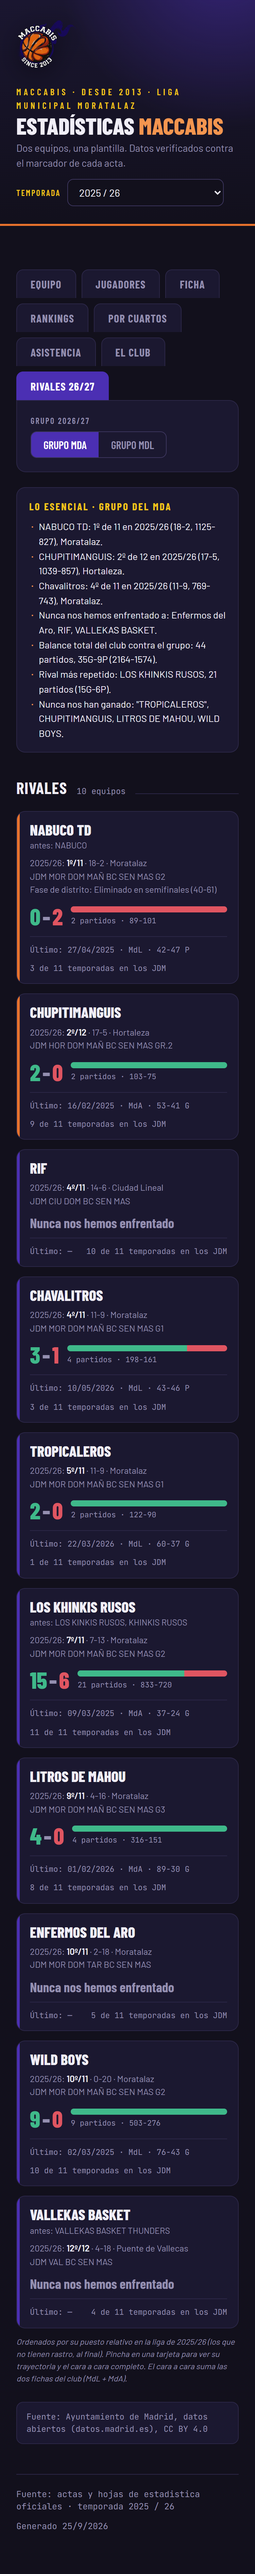
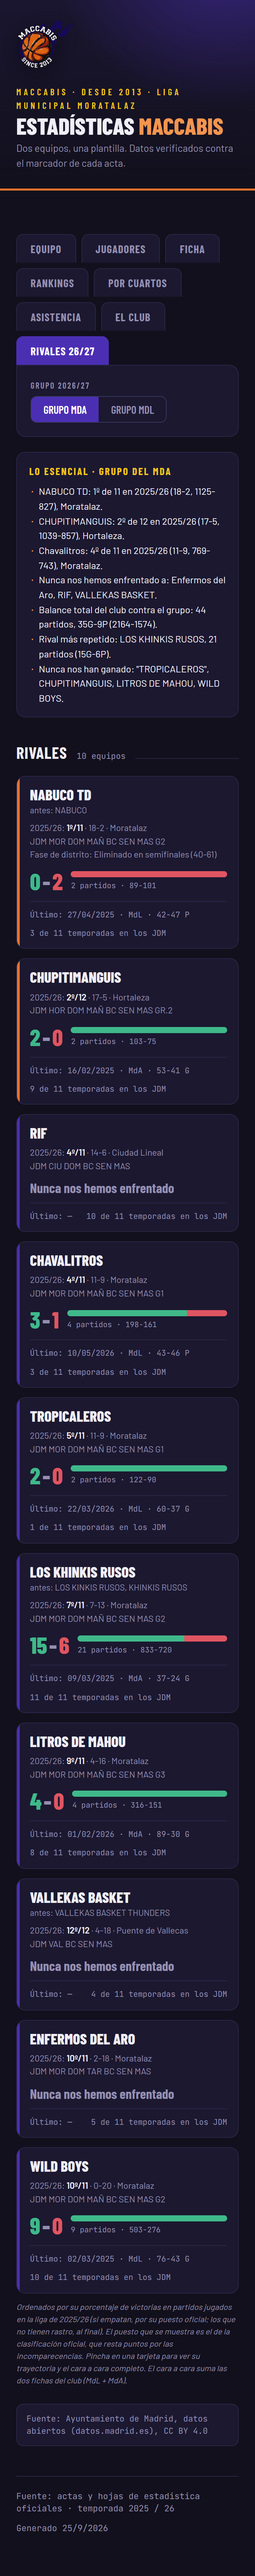
feat(web): retoques de Rivales 26/27 (incomparecencias, orden y selector)
- "N incomparecencias" junto al puesto cuando explican PJ ≠ G+P, con aviso
  propio; el ⚠ queda para los descuadres que no explican (D29).
- Tarjetas ordenadas por % de victorias en partidos jugados en 2025/26,
  desempate por puesto oficial. 28500 pasa de último a 3º del grupo MdL.
- El selector de temporada se oculta mientras la pestaña está activa.
- Capturas de los grupos rehechas.

diff --git a/index.html b/index.html
@@ -195,6 +195,7 @@ th.hprev{color:var(--dim)}
 .rvfoot{display:flex;justify-content:space-between;gap:10px;flex-wrap:wrap;margin-top:12px;padding-top:10px;border-top:1px solid var(--line);font-family:'JetBrains Mono';font-size:11.5px;color:var(--dim)}
 .rvfoot span{min-width:0;overflow-wrap:anywhere}
 .rvwarn{color:var(--gold);cursor:help;font-style:normal}
+.rvincomp{color:var(--ball2);cursor:help;font-style:normal;border-bottom:1px dotted var(--ball2);white-space:nowrap}
 .rvtag{font-family:'Barlow Condensed';font-weight:700;font-size:12px;letter-spacing:.06em;text-transform:uppercase;padding:2px 8px;border-radius:5px;background:var(--line);color:var(--dim);display:inline-block;margin-top:10px}
 .rvfuente{margin-top:26px;padding:12px 14px;border:1px solid var(--line);border-radius:10px;background:var(--bg2);font-family:'JetBrains Mono';font-size:12px;color:var(--dim);overflow-wrap:anywhere}
 .hmodal .hbox.rvbox{max-width:880px}
@@ -326,7 +327,7 @@ th.hprev{color:var(--dim)}
   <div class="rvesencial" id="rvEsencial"></div>
   <div class="sec-h"><h2>Rivales</h2><span class="tag" id="rvTag"></span><span class="rule"></span></div>
   <div class="rvgrid" id="rvGrid"></div>
-  <p class="note">Ordenados por su puesto relativo en la liga de 2025/26 (los que no tienen rastro, al final). Pincha en una tarjeta para ver su trayectoria y el cara a cara completo. El cara a cara suma las dos fichas del club (MdL + MdA).</p>
+  <p class="note">Ordenados por su porcentaje de victorias en partidos jugados en la liga de 2025/26 (si empatan, por su puesto oficial; los que no tienen rastro, al final). El puesto que se muestra es el de la clasificación oficial, que resta puntos por las incomparecencias. Pincha en una tarjeta para ver su trayectoria y el cara a cara completo. El cara a cara suma las dos fichas del club (MdL + MdA).</p>
   <div id="rvFicha"></div>
   <div class="rvfuente">Fuente: Ayuntamiento de Madrid, datos abiertos (datos.madrid.es), CC BY 4.0</div>
 </div>
@@ -872,6 +873,8 @@ const rvEsc=s=>String(s==null?'':s).replace(/[&<>"']/g,c=>({'&':'&amp;','<':'&lt
 const rvT=t=>t.slice(2,4)+'/'+t.slice(5,7);
 const rvFecha=f=>f?f.slice(8,10)+'/'+f.slice(5,7)+'/'+f.slice(0,4):'';
 const rvWarn=txt=>txt?' <i class="rvwarn" title="'+rvEsc(txt)+'">⚠</i>':'';
+// Incomparecencias: la clasificación oficial es real (no presentarse resta puntos), pero el balance en pista es G-P
+const rvIncomp=(n,g,p)=>n?' · <i class="rvincomp" title="'+rvEsc('No presentarse resta puntos: la clasificación oficial es real, pero su balance en pista es '+g+'-'+p)+'">'+n+' incomparecencia'+(n>1?'s':'')+'</i>':'';
 const rvChip=f=>'<span class="teamchip '+rvEsc(String(f).toUpperCase())+'">'+rvEsc(f)+'</span>';
 
 function rvUrl(r){
@@ -889,6 +892,11 @@ async function initRivales(){
   }
   const qs=new URLSearchParams(location.search);
   if(qs.get('g')==='MdL'||qs.get('g')==='MdA')rvs.grupo=qs.get('g');
+  // el selector de temporada no aplica a esta pestaña: se oculta mientras está activa
+  const bRv=document.querySelector('.tab[data-p="rivales"]'), barra=document.querySelector('.seasonbar');
+  const syncSel=()=>{barra.style.display=bRv.classList.contains('on')?'none':'';};
+  new MutationObserver(syncSel).observe(bRv,{attributes:true,attributeFilter:['class']});
+  syncSel();
   const seg=document.getElementById('segRvGrupo');
   seg.onclick=e=>{const g=e.target.dataset.g;if(!g)return;rvs.grupo=g;rvUrl();rvRender();};
   rvRender();
@@ -901,10 +909,10 @@ async function initRivales(){
 function rvOrden(a,b){
   const ka=a.sin_rastro?2:(a.t2526?0:1), kb=b.sin_rastro?2:(b.t2526?0:1);
   if(ka!==kb)return ka-kb;
+  // % de victorias en partidos jugados en 2025/26; empate: puesto oficial (D29)
   if(a.t2526&&b.t2526){
-    if(b.t2526.rel!==a.t2526.rel)return b.t2526.rel-a.t2526.rel;
-    const wa=a.t2526.g/((a.t2526.g+a.t2526.p)||1), wb=b.t2526.g/((b.t2526.g+b.t2526.p)||1);
-    return wb-wa;
+    if(b.t2526.pct!==a.t2526.pct)return b.t2526.pct-a.t2526.pct;
+    return a.t2526.pos-b.t2526.pos;
   }
   return a.nombre.localeCompare(b.nombre,'es');
 }
@@ -944,7 +952,7 @@ function rvCard(r){
       '<div class="rvdonde">Equipo nuevo, cambio de nombre o competición externa.</div>'+rvBalanceH2H(r.h2h)+'</div>';
   }
   const t=r.t2526;
-  const donde=t?'<div class="rvdonde">2025/26: <b>'+t.pos+'º/'+t.n+'</b> · '+t.g+'-'+t.p+rvWarn(t.aviso)+' · '+rvEsc(t.distrito)+'<br>'+rvEsc(t.grupo)+
+  const donde=t?'<div class="rvdonde">2025/26: <b>'+t.pos+'º/'+t.n+'</b>'+rvIncomp(t.incomparecencias,t.g,t.p)+' · '+t.g+'-'+t.p+rvWarn(t.aviso)+' · '+rvEsc(t.distrito)+'<br>'+rvEsc(t.grupo)+
       (t.extra.length?'<br>'+rvEsc(t.extra.join(' · ')):'')+'</div>'
     :'<div class="rvdonde">No jugó en 2025/26.</div>';
   return '<div class="rvcard'+(t&&t.pos<=3?' top':'')+'" data-id="'+rvEsc(r.id)+'" tabindex="0" role="button" aria-label="Ver ficha de '+rvEsc(r.nombre)+'">'+
@@ -981,7 +989,7 @@ function rvAbrir(id){
   const h=r.h2h;
   const tray=r.trayectoria.map(f=>'<tr><td class="mono">'+rvT(f.t)+(f.t==='2025-26'?' <span class="po">pasada</span>':'')+'</td>'+
     '<td>'+rvEsc(f.nombre)+'</td><td>'+rvEsc(f.distrito)+'</td><td>'+rvEsc(f.fase)+'</td><td>'+rvEsc(f.grupo)+(f.calculado?' <i class="rvnota" title="Sin fila en la clasificación oficial: balance calculado de los partidos">¹</i>':'')+'</td>'+
-    '<td class="mono">'+(f.pos?f.pos+'º/'+f.n:'—')+rvWarn(f.aviso)+'</td>'+
+    '<td class="mono">'+(f.pos?f.pos+'º/'+f.n:'—')+rvWarn(f.aviso)+(f.incomparecencias?rvIncomp(f.incomparecencias,f.g,f.p).replace(' · ',' '):'')+'</td>'+
     '<td class="mono">'+(f.pj==null?'—':f.pj)+'</td><td class="mono">'+(f.g==null?'—':f.g+'-'+f.p)+'</td>'+
     '<td class="mono">'+(f.pf==null?'—':f.pf+'-'+f.pc)+'</td><td>'+rvEsc(f.hasta||'')+'</td></tr>').join('');
   const partidos=h.partidos.map(p=>'<tr><td class="mono">'+(p.fecha?rvFecha(p.fecha):rvT(p.t))+'</td><td>'+rvChip(p.ficha)+'</td>'+

diff --git a/scripts/build_rivales_web.js b/scripts/build_rivales_web.js
@@ -27,8 +27,11 @@ const slug = s => String(s).normalize('NFD').replace(/[̀-ͯ]/g, '').toLowerCase
   .replace(/[^a-z0-9]+/g, '-').replace(/^-|-$/g, '');
 
 const esLiga = f => f.tipo === 'liga' || f.tipo === 'liga_2';
-const descuadre = f => f.pj != null && f.g != null && f.pj !== f.g + f.p
+// PJ ≠ G+P: si la diferencia son incomparecencias perdidas, la clasificación es real (no presentarse
+// resta puntos, D29) y no es un descuadre. Sólo lo que no explican las incomparecencias lleva ⚠.
+const descuadre = f => f.pj != null && f.g != null && f.pj !== f.g + f.p + (f.incomparecencias || 0)
   ? `La clasificación oficial no cuadra: PJ ${f.pj} ≠ G+P ${f.g + f.p}. Se muestra tal cual, sin corregir.` : null;
+const incomp = f => f.incomparecencias && f.pj === f.g + f.p + f.incomparecencias ? f.incomparecencias : undefined;
 
 /** Puesto relativo en una liga: 1 = primero, 0 = último. */
 const relativo = (pos, n) => pos === 1 ? 1 : (n > 1 ? (n - pos) / (n - 1) : 0);
@@ -40,7 +43,7 @@ function fila(s, i, f) {
     pj: f.pj, g: f.g, p: f.p, pf: f.pf, pc: f.pc,
     hasta: f.eliminatoria ? f.eliminatoria.texto : null,
     calculado: f.fuente !== 'clasificacion' || undefined,
-    aviso: descuadre(f) || undefined,
+    aviso: descuadre(f) || undefined, incomparecencias: incomp(f),
   };
 }
 
@@ -79,7 +82,8 @@ function main() {
       t2526: l ? {
         nombre: tp.nombre, distrito: l.distrito, grupo: l.grupo, pos: l.posicion, n: l.equipos_en_grupo,
         g: l.g, p: l.p, pf: l.pf, pc: l.pc, rel: +relativo(l.posicion, l.equipos_en_grupo).toFixed(4),
-        aviso: descuadre(l) || undefined,
+        aviso: descuadre(l) || undefined, incomparecencias: incomp(l),
+        pct: +(l.g / ((l.g + l.p) || 1)).toFixed(4),
         extra: tp.fases.filter(f => f.eliminatoria).map(f => `${f.fase}: ${f.eliminatoria}`),
       } : null,
       h2h: {

diff --git a/scripts/build_rivales_2026_27.py b/scripts/build_rivales_2026_27.py
@@ -234,6 +234,19 @@ def ronda_de(idx_t, r):
     return RONDAS.get(n, f'Ronda {r["Jornada"]}')
 
 
+def incomparecencias_perdidas(idx_t, cod, grupo):
+    """Partidos del grupo que el equipo perdió por no presentarse (estado "N" y marcador en contra).
+    El portal los cuenta en PJ pero no en G ni en P, y restan puntos (D29)."""
+    n = 0
+    for r in idx_t['grupo'].get(grupo, []):
+        if r['Estado'] != 'N' or cod not in (r['Codigo_equipo1'], r['Codigo_equipo2']):
+            continue
+        a, b = num(r['Resultado1']) or 0, num(r['Resultado2']) or 0
+        if a != b and (a < b) == (r['Codigo_equipo1'] == cod):
+            n += 1
+    return n
+
+
 def recorrido_eliminatoria(idx_t, cod, grupo):
     """Hasta dónde llegó un equipo en un cuadro de eliminatorias (sistema COPA)."""
     ps = [r for r in idx_t['grupo'][grupo] if cod in (r['Codigo_equipo1'], r['Codigo_equipo2'])]
@@ -308,6 +321,9 @@ def trayectoria(nombres_norm, P, C, idx, cods):
                 f = {'tipo': clave, 'fase': etiqueta, 'competicion': r['Nombre_competicion'],
                      'nombre_fase': r['Nombre_fase'], 'grupo': r['Nombre_grupo'], 'distrito': r['Nombre_distrito'],
                      'codigo_grupo': g, 'fuente': 'clasificacion', **fila_clas(r, n_grupo[t][g])}
+                n_np = incomparecencias_perdidas(idx[t], cod, g)
+                if n_np:
+                    f['incomparecencias'] = n_np
                 if idx[t]['sistema'].get(g) == 'COPA':
                     f['eliminatoria'] = recorrido_eliminatoria(idx[t], cod, g)
                 fases.append(f)
@@ -809,7 +825,8 @@ def main():
                 'nombres_anteriores_confirmados': alias, 'apodos_historico_propio': apodos,
                 'temporadas_en_jdm': len(tray), 'temporadas_disponibles': len(TEMPORADAS),
                 'temporada_pasada_2025_26': ({'nombre': ', '.join(ult['nombres']), 'fases': [
-                    {k: f.get(k) for k in ('fase', 'distrito', 'grupo', 'posicion', 'equipos_en_grupo', 'pj', 'g', 'p', 'pf', 'pc', 'dif')}
+                    {k: f.get(k) for k in ('fase', 'distrito', 'grupo', 'posicion', 'equipos_en_grupo', 'pj', 'g', 'p', 'pf', 'pc', 'dif',
+                                           'incomparecencias')}
                     | ({'eliminatoria': f['eliminatoria']['texto']} if f.get('eliminatoria') else {})
                     for i in ult['inscripciones'] for f in i['fases']]} if ult else None),
                 'mejor_resultado': mejor_resultado(tray),

diff --git a/docs/DECISIONS.md b/docs/DECISIONS.md
@@ -132,3 +132,9 @@ Ninguna otra variante está confirmada. En particular **no** lo están `CARPASIO
 ## D28 — La pestaña de rivales dibuja su gráfico sin librerías
 **Decisión:** el gráfico de trayectoria de "Rivales 26/27" es un SVG generado en el propio `index.html`. No se añade Chart.js ni ninguna otra librería.
 **Por qué:** el bloque decía "sin librerías nuevas (Chart.js ya está)", pero **Chart.js no está** en el dashboard: los gráficos existentes (por cuartos, rejilla de la Historia) son CSS. Añadirlo habría sido una librería nueva. Un SVG basta para un gráfico de puntos con huecos sin interpolar, y funciona sin conexión.
+
+## D29 — Incomparecencias: la clasificación es real, pero el scouting ordena por balance en pista (Iván, 25/09/2026)
+**Decisión:** no presentarse a un partido **resta puntos** en la clasificación de los JDM, así que la clasificación oficial es **real** aunque PJ ≠ G + P. Para el scouting importa más el balance de los partidos jugados:
+- Si en 2025/26 un rival tiene derrotas por incomparecencia (estado "N" en el portal) y explican exactamente la diferencia PJ − (G + P), la tarjeta dice **"N incomparecencias"** junto al puesto, con el aviso *"No presentarse resta puntos: la clasificación oficial es real, pero su balance en pista es G-P"*. El ⚠ de "clasificación que no cuadra" se reserva para lo que las incomparecencias **no** explican (p. ej. MEJORADA 2012 C.B., de un grupo sin partidos en el portal con el que contrastar).
+- Las tarjetas de la pestaña se ordenan por **% de victorias en partidos jugados, G/(G+P), en 2025/26**; si empatan, por el puesto oficial; los que no tienen rastro, al final. El puesto que se muestra sigue siendo el oficial.
+**Caso de control:** 28500, 13-5 en pista y 11º/11 oficial por 2 incomparecencias, pasa a 3º del grupo del MdL en el orden de la pestaña.
